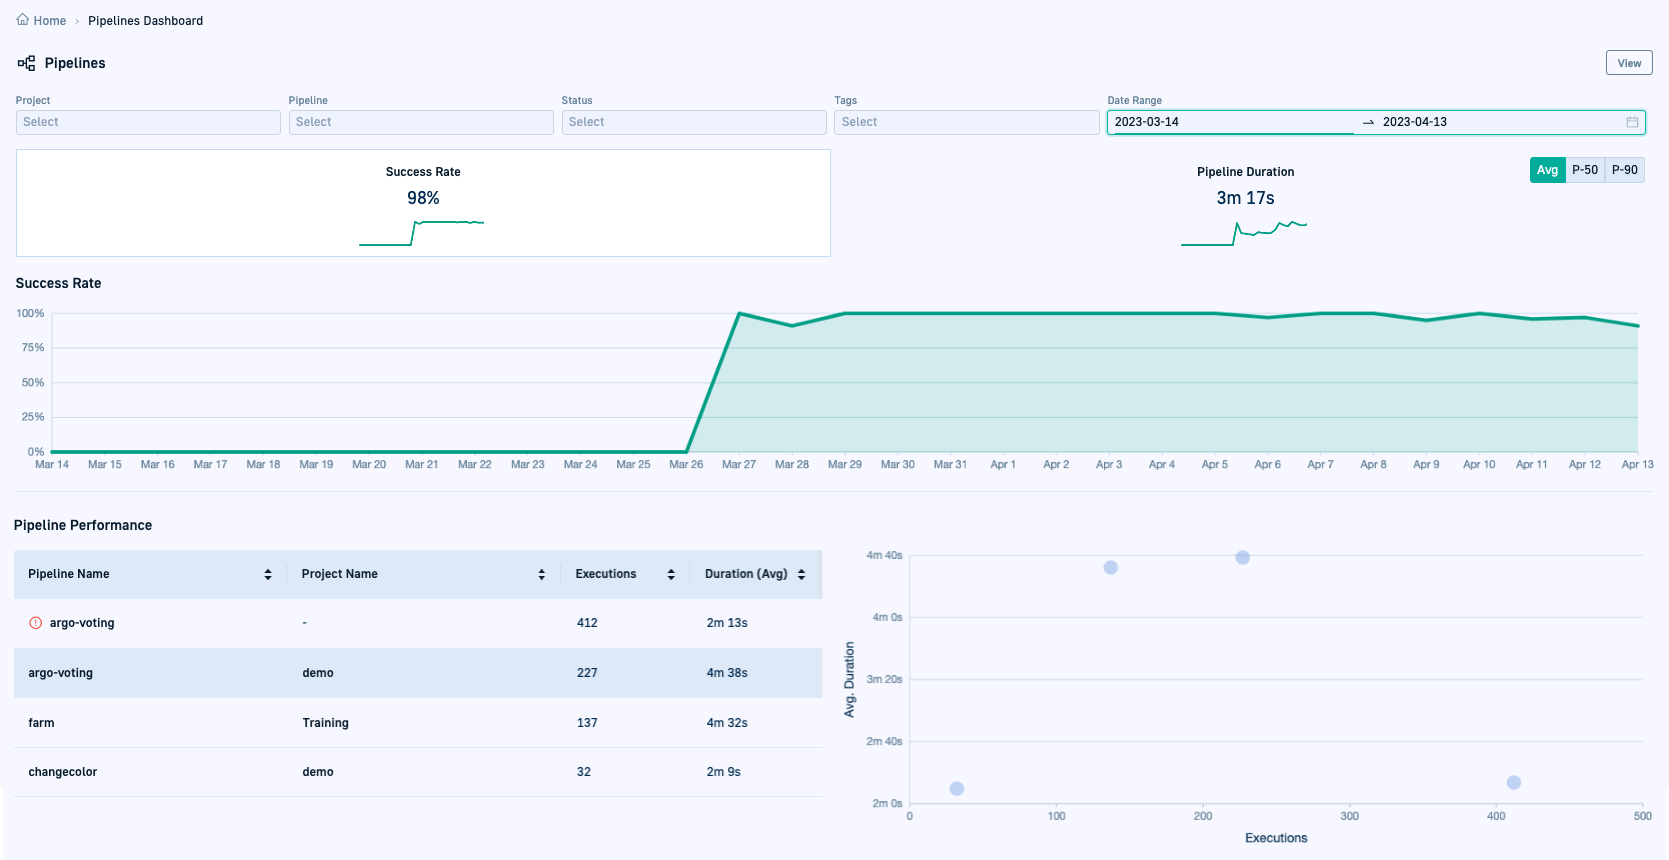
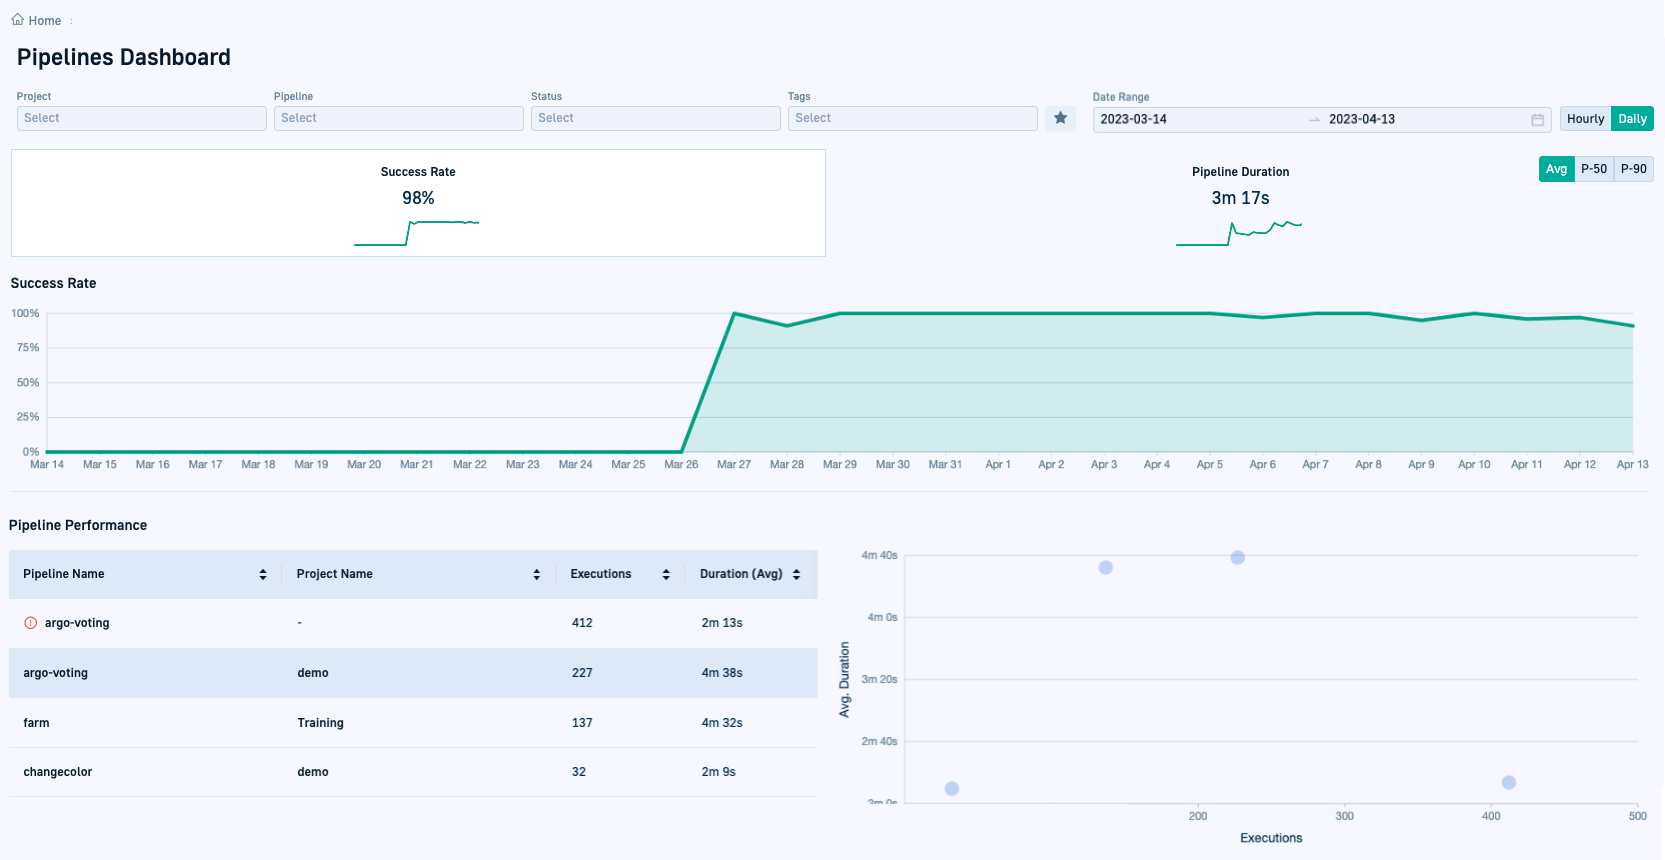
Update pipeline dashboard
Added description of Hourly/Daily granularity with new screenshot showing fav icon and granularity

diff --git a/_docs/dashboards/home-dashboard.md b/_docs/dashboards/home-dashboard.md
@@ -246,7 +246,7 @@ Use the Pipelines dashboard to:
   url="/images/pipeline/dashboard/pipeline-dashboard.png"
   alt="Pipelines dashboard"
   caption="Pipelines dashboard"
-  max-width="60%"
+  max-width="70%"
     %} 
 
 
@@ -262,7 +262,8 @@ Different filter types have an AND relationship.
 {: .table .table-bordered .table-hover}
 |  Filter          |  Description|  
 | --------------   | --------------|  
-| **Date Range** | The time frame for which to view data. The date range affects the other filters. In addition to the predefined date ranges, you can select a custom date range up to the last six months. <br>If you select Today, then the Success Rate and Duration charts reflect hourly granularity.<br><br>Every date range you select has a reference period corresponding to the same period of time preceding the selected date range. The reference period is used to derive comparisons for trends.|
+| **Date Range** | The time frame for which to view data. The date range affects the other filters, including the granularity for the Success Rate and Pipeline Duration charts. <br>In addition to the predefined date ranges, you can select a custom date range of up to the last six months. <br>If you select Today, then the Success Rate and Duration charts reflect hourly granularity.<br><br>Every date range you select has a reference period corresponding to the same period of time preceding the selected date range. The reference period is used to derive comparisons and identify trends.  |
+| **Hourly/Daily** |Based on the date range selected, choose the granularity for viewing Success Rate and Pipeline Duration. {::nomarkdown}<ul><li>A date range between 1 and 4 days allows viewing metrics either by hour or by day.</li><li>A date range longer than four days allows viewing metrics only by day. The Hourly option is disabled in this case.</li></ul> {:/}
 | **Project**           | The project or projects to which the pipeline belongs. Selecting a project allows you to focus on performance of pipelines assigned to it. If you starred one or more projects as favorites, clicking {::nomarkdown}<img src="../../../images/icons/icon-fav-starred.png?display=inline-block">{:/}, filters pipelines by the selected projects.|                            
 | **Pipeline**           | The pipeline or pipelines to filter by. <br>If you starred one or more pipelines as favorites, clicking {::nomarkdown}<img src="../../../images/icons/icon-fav-starred.png?display=inline-block">{:/}, filters by those pipelines. |                            
 | **Status**           | {::nomarkdown}<ul><li><b>Error</b>: Pipelines with builds that failed due to errors in the pipeline specifications or steps that failed. </li><li><b>Succeeded</b>: Pipelines with builds that completed successfully.</li> <li><b>Terminated</b>: Pipelines with builds terminated by the system according to the policy defined in the pipeline's settings. These can be any of these: <ul><li>Recent build from the same branch terminating all previous pipeline builds </li><li>Recent build from the specified branch terminating all previous builds from that branch</li><li>Running build terminating all running builds</li><li>Child builds terminated when the parent build is terminated.</li> </ul></li>For details, see <a href ="https://codefresh.io/docs/docs/pipelines/pipelines/#policies">Build Termination in Pipeline Policies</a>. </ul>{:/}|                            
@@ -361,8 +362,8 @@ You can then filter by the specific pipeline or pipelines and analyze success ra
 
 ## Related articles
 [DORA metrics]({{site.baseurl}}/docs/dashboards/dora-metrics/)  
-[Monitoring applications]({{site.baseurl}}/docs/deployments/gitops/applications-dashboard/)
-[Monitoring pipelines]({{site.baseurl}}/docs/pipelines/monitoring-pipelines/)  
+[Monitoring applications]({{site.baseurl}}/docs/deployments/gitops/applications-dashboard/)  
+[Monitoring pipelines]({{site.baseurl}}/docs/pipelines/monitoring-pipelines/)   
 [Images in Codefresh]({{site.baseurl}}/docs/dashboards/images/)  
 
 
